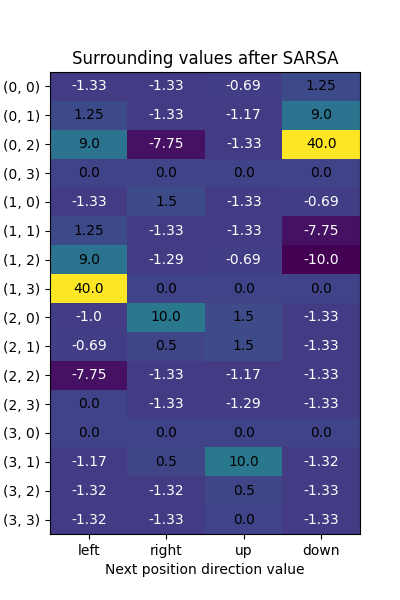
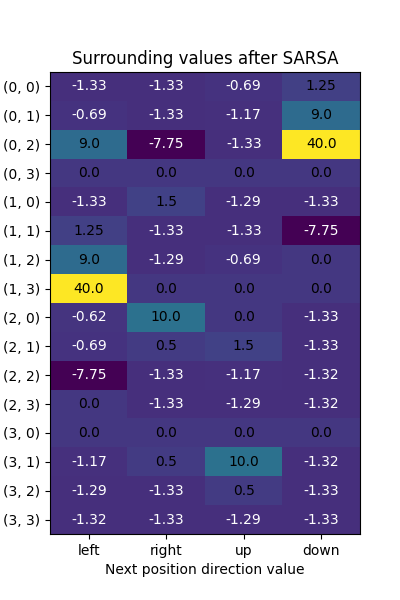
1000 run episodes, and q_learning

diff --git a/AS2.2/Agent.py b/AS2.2/Agent.py
@@ -163,13 +163,14 @@ class Agent:
 
                 best_action_value = max(next_surr_values)
 
-                # self.pos[3][action] = c_surr_values[action] + learning_rate * (self.maze.rewards[next_position] + discount * next_surr_values[next_action] - c_surr_values[action])
+                self.maze.surrounding_values_per_coords[state][action][0] = self.maze.surrounding_values_per_coords[state][action][0] + learning_rate * (self.maze.rewards[next_position] + discount * best_action_value - self.maze.surrounding_values_per_coords[state][action][0])
 
                 self.position = next_position
+                state = next_position
 
             self.position = (3, 2)
 
-        # self.plot_values()
+        self.plot_sarsa_values("_q-learning")
 
     def print_iteration(self, iteration):
         """

diff --git a/AS2.2/main.py b/AS2.2/main.py
@@ -19,7 +19,7 @@ agent.value_iteration()
 
 # agent.temporal_difference(0.5, 1, 10)
 # agent.temporal_difference(0.5, 0.5, 10)
-agent.sarsa(0.25, 1, 0.1, 2000)
+# agent.sarsa(0.25, 1, 0.1, 2000)
 # agent.sarsa(0.25, 0.9, 0.1, 20000)
-# agent.q_learning(0.25, 1, 0.1, 50000)
+agent.q_learning(0.25, 1, 0.1, 50000)
 # agent.q_learning(0.5, 0.9, 0.1, 50000)

diff --git a/AS3.1/main.py b/AS3.1/main.py
@@ -8,11 +8,11 @@ import numpy as np
 env = gym.make("LunarLander-v2", render_mode="human")
 observation, info = env.reset(seed=42)
 
-episodes = 500
+episodes = 1000
 max_steps = 1000
 max_memory_size = 10000
 batch_size = 32
-learning_rate = 1   # 0.9
+learning_rate = 0.1   # 0.9
 scores = []
 average_scores = []
 
